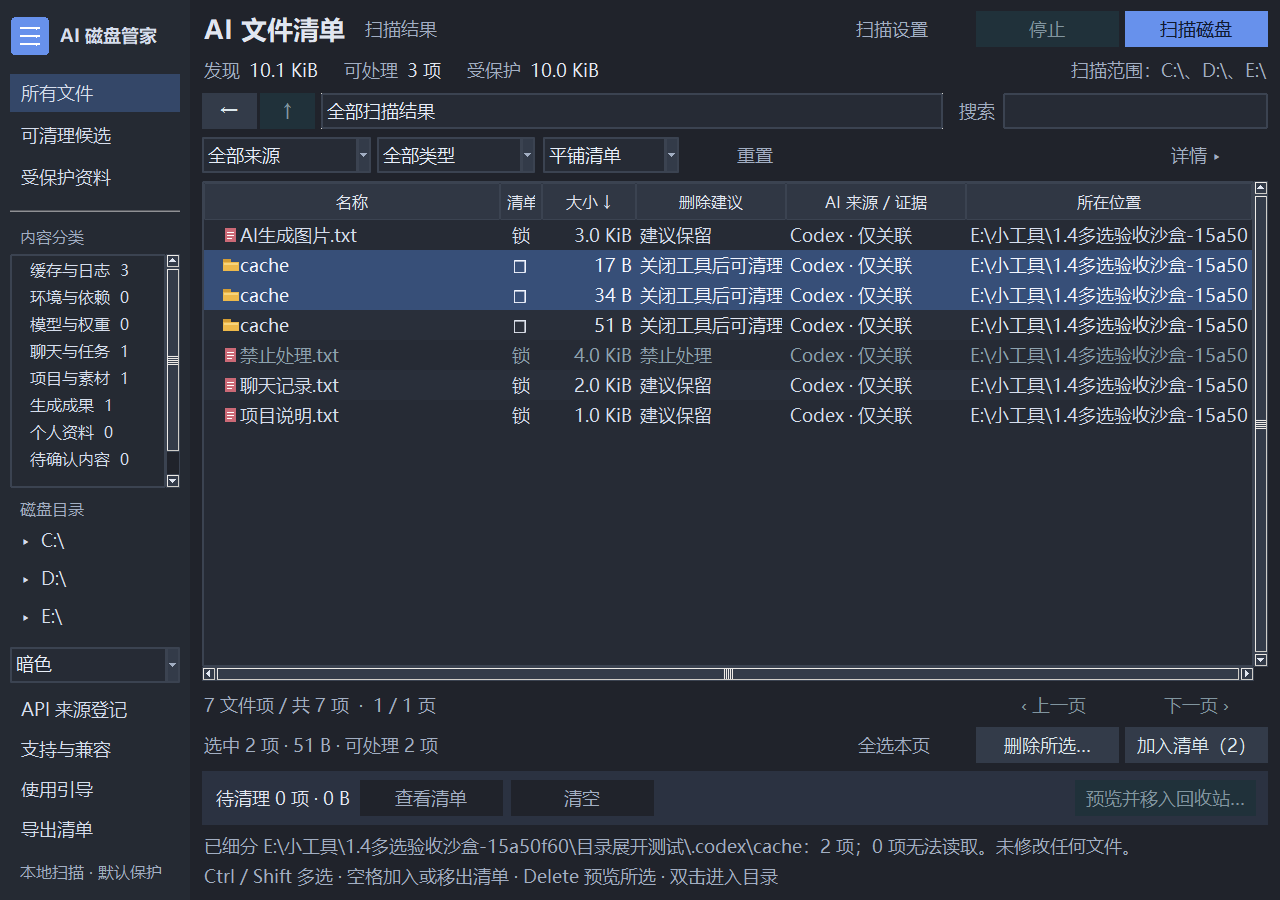
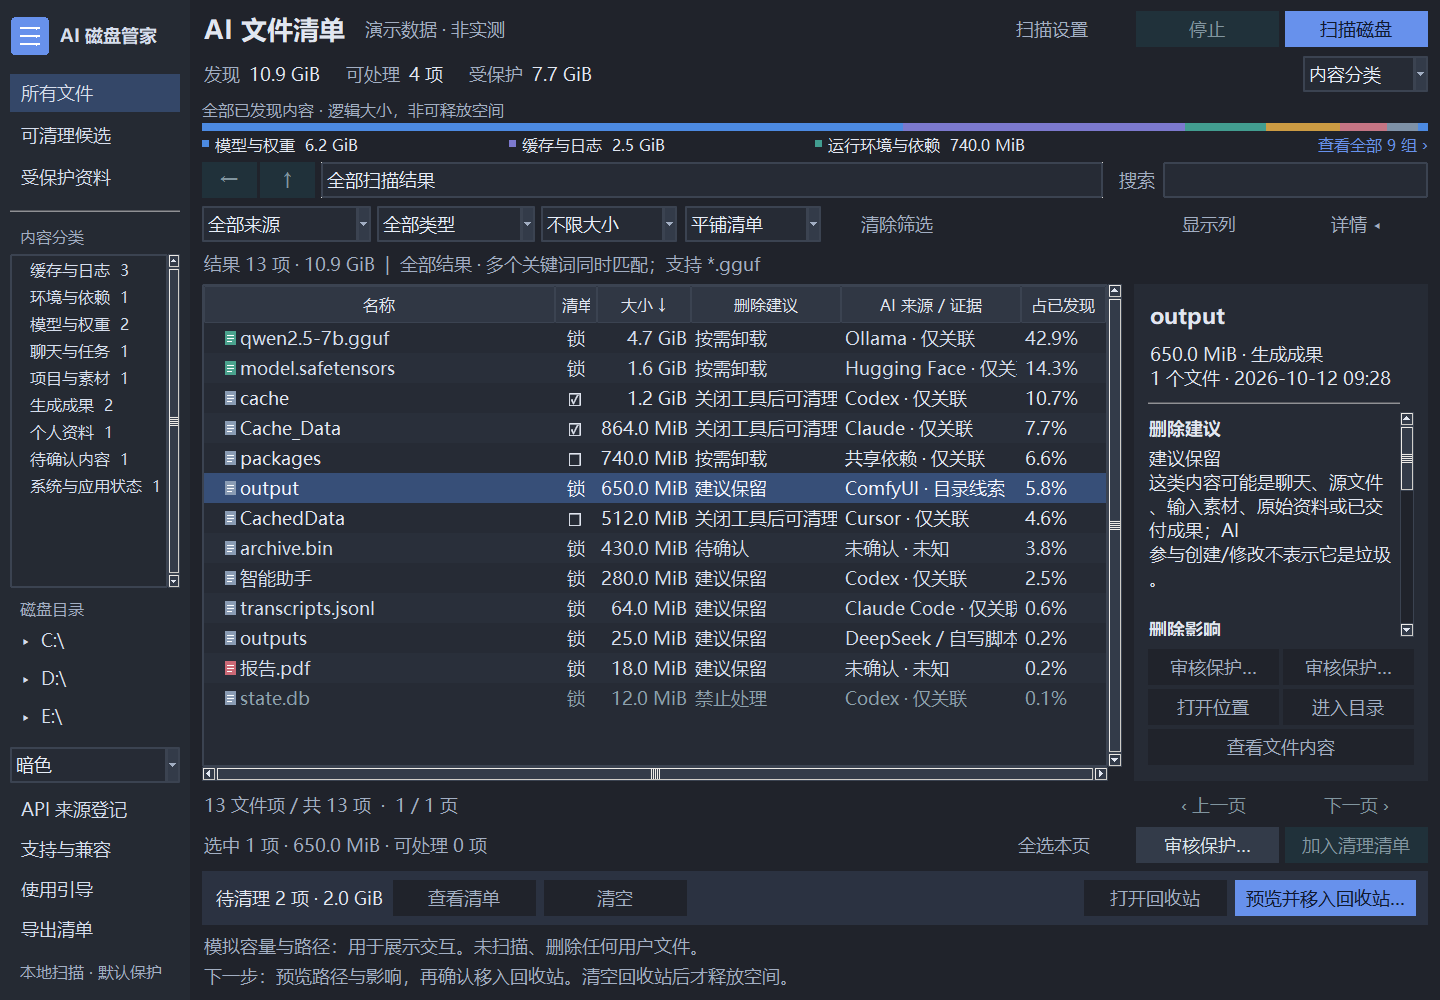
Release 1.5.0 with clearer capacity and review workflows

diff --git a/docs/ui-comparison.md b/docs/ui-comparison.md
@@ -1,0 +1,47 @@
+# 竞品界面与操作对比，以及 1.5 的实际优化
+
+核查日期：2026-10-12。本次对比基于官方截图、官方操作文档和版本记录；没有安装运行竞品，也没有做扫描速度、误删率或内存占用对比。AICacheCleaner 的 All locations 官方演示截图已实际打开查看。以下体验评价是从这些材料得出的设计判断。
+
+## 结论
+
+AI 磁盘管家的价值在于中文说明、明确区分生成者/修改者/关联工具/人工登记、API 自写脚本目录登记，以及先保护、再审核、再回收的流程。这些是已经实现的能力，不意味着竞品都没有，也不是“首个 AI 清理软件”。
+
+原 1.4 的主要不足是：容量摘要只有数字，难以看出空间分布；缺少大小筛选和筛选状态提示；列布局固定；小窗口的分类空间不足；删除预览把多项路径和影响堆在长文本里。原版已有多选、跨页清单和删除建议，本次是在这些功能上改进体验。
+
+## 逐项对比
+
+| 产品 | 值得借鉴的界面与操作 | 我们的定位与当前不足 | 本次处理 |
+| --- | --- | --- | --- |
+| [AICacheCleaner](https://github.com/IamRamgarhia/AICacheCleaner) | 容量按工具展示，风险标签直观；All locations 把名称/路径、大小、风险与详情放在同一视图，提供大小/安全筛选；官方还提供恢复管理 | 我们强调中文证据解释及人工来源登记。其官方功能范围更广，包含恢复管理、重复模型、Docker/WSL、进程等；我们尚无这些能力 | 增加内容/工具容量分布、点击分组筛选、大小筛选、结果摘要；增加系统回收站入口，不能称为内置恢复管理 |
+| [WizTree 操作指南](https://diskanalyzer.com/guide) | 目录与文件两种浏览、容量可视化、多个关键词和文件名通配符，快速缩小大文件范围 | 我们有 AI 内容分类与影响说明，但没有完整树图或 MFT 扫描；没有实测证据证明速度更快 | 增加 GiB/MiB 筛选、多个词同时匹配、引号短语和 *.gguf 通配符；容量条明确为已发现内容的逻辑大小 |
+| [TreeSize 详情列表](https://manuals.jam-software.com/treesize/EN/details.html) | Explorer 风格列表、灵活列配置；标题右键选择显示内容，目录、容量、分类可结合阅读 | 我们此前列固定且窄窗口容易横向拥挤；TreeSize 各版本功能有差异，不把收费版本能力归到 Free 版 | 增加“显示列”和表头右键菜单；列选择保存，窗口缩放/主题切换保留；默认按窗口宽度安排占比和位置列 |
+| [Codex Cleanup VI-IT](https://github.com/VI-IT/Codex-Cleanup) | 按项目聚合，大小和影响结合风险级别，扫描、选择、确认分阶段 | 我们中文、覆盖更多规则生态，所有项默认不勾选，只走回收站；仍缺项目级过期构建识别与完整项目汇总 | 将“删除所选”改成准确的“预览所选”；确认窗口改为列表与所选项影响；保留逐项审核和确认门槛 |
+| [CCleaner 版本记录](https://www.ccleaner.com/ccleaner/version-history) | 官方最新记录已新增 AI Tools 分类；本次只核查版本功能，没有实际体验当前界面 | 不能宣传通用清理工具“不认识 AI”。我们聚焦证据与生成成果保护；尚无同等成熟的安装、签名、更新与广泛硬件验证 | 在文档中明确差异，保留“扫描 → 查看 → 勾选 → 核对”的流程与首次空列表引导 |
+| [WinDirStat](https://windirstat.net/) | 官方容量图、搜索、快照等功能有利于定位空间 | 我们尚无完整树图、快照差异比较、模型去重；本次没有做交互或速度实测 | 先补轻量容量分布和已发现占比，不把小图宣传为完整文件系统分析 |
+| [BleachBit](https://www.bleachbit.org/features) | 预览处理内容、清理类别与可扩展规则；说明动作有助于用户决策 | 清理目的及擦除方式与我们不同；不能断言其所有社区规则都不支持 AI | 保留删除前预览与影响，失败保留原文件；不增加永久删除快捷入口 |
+| [AI Cache Cleaner VS Code 扩展](https://github.com/lidegejingHk/ai-cache-cleaner) | 官方看板、工具分类、安全等级和规则设置集中 | 我们便携运行，无需 VS Code；其跨平台行为和市场安装情况本次未实测；我们的规则维护仍需新版发行 | 保留独立中文程序和主题，增加工具维度容量查看；未新增规则编辑器 |
+
+## 1.5 已实现的改进
+
+1. **容量更容易看清**：按内容分类或关联工具查看容量条与分组列表，点击即可筛选。统计覆盖全部已发现内容，筛选和换页不改变占比分母。显示逻辑大小，不能当作必然能释放的容量。
+2. **定位文件更快**：增加 ≥1 GiB、≥100 MiB、<1 MiB 筛选；搜索多个词同时匹配，支持引号短语及文件名 * / ? 通配符。空目录候选不会凭内部未知文件名冒充搜索命中。
+3. **筛选状态明确**：结果数量、合计大小和生效条件放在列表上方。无结果时给出清除筛选按钮；清除不会丢失当前位置或跨页清理清单。
+4. **列表更灵活**：列菜单和表头右键可以选择内容分类、保护状态、完整路径等；列选择可保存。默认布局在小窗口保留名称、清单、大小、建议、来源和占比，大窗口增加位置。
+5. **小窗口更可用**：较短窗口把磁盘入口和辅助工具收进菜单，九类内容可以完整浏览；右侧详情动作改成两列，减少垂直占用。容量图同步压缩。
+6. **清理阶段更清楚**：选中与加入清单仍是两种动作；所选项先“预览所选”。最后确认显示项目数、总量、列表和选中项的完整路径与影响，确认勾选默认关闭。
+7. **保护审核更准确**：点击普通行只查看，只有明确点击勾选列才批准保护项，避免浏览内容时误批准。永久保护仍不能解锁。
+8. **新用户有起点**：首次无数据时显示扫描、浏览、核对步骤；增加打开系统回收站入口，用户可在系统界面自行检查和还原。
+
+## 仍然需要改进
+
+- 视觉框架仍是 Tk/ttk，和成熟商用清理工具在字体缩放、原生控件质感、细节一致性上有距离。不是 WinUI 重写。
+- 未实现 MFT 加速、完整树图、模型去重、Docker/WSL 专项分析、内置恢复点和自动更新。
+- API 来源目前依赖人工登记或已有日志导入；不能自动认出没有来源记录的所有文件，更不能把关联工具当作生成者。
+- 当前目标 Windows 10/11 x64，只在开发电脑验证；没有证明兼容所有电脑、所有显示缩放或所有 AI 产品版本。
+- 多盘全量扫描仍可能耗时；没有完成竞品性能跑分与长期用户可用性研究。
+
+## 验证与截图
+
+真实 Tk 窗口验证覆盖亮暗主题、三种窗口尺寸、多选、列选择、容量图点击、筛选无结果、目录保持、保护审核与预览。回收站测试只处理自行创建的两个微小目录，共 51 字节。用户原有报告、来源登记与界面设置以指纹核对保持不变。
+
+产品演示截图中的容量和路径全部是明确标记的模拟数据，不能用于宣传实际清理效果。测试截图和发行验证记录保存在本地 `扫描报告/1.5界面验收`；公共发行只包含去除私有数据的演示截图和说明。

diff --git a/README.md b/README.md
@@ -4,13 +4,13 @@
 
 中文 Windows 桌面工具：按大小盘点 AI 缓存、依赖、模型、聊天、项目与生成成果，显示来源证据、处理建议及删除影响。支持目录浏览、多选和跨页清理清单，聊天记录、项目、模型与成果默认保护。
 
-[下载 Windows 便携版](https://github.com/scarlimith/ai-disk-manager/releases/latest) · [使用说明](使用说明.txt) · [支持与边界](docs/support.md) · [验证摘要](docs/validation.md) · [反馈问题](https://github.com/scarlimith/ai-disk-manager/issues)
+[下载 Windows 便携版](https://github.com/scarlimith/ai-disk-manager/releases/latest) · [使用说明](使用说明.txt) · [支持与边界](docs/support.md) · [验证摘要](docs/validation.md) · [界面与竞品对比](docs/ui-comparison.md) · [反馈问题](https://github.com/scarlimith/ai-disk-manager/issues)
 
 这是**程序发行仓库**，提供编译好的程序、说明与演示截图，**不公开应用源码**。GitHub 自动生成的 “Source code” 压缩包仅含本仓库的发行资料，不能代替程序下载。
 
 ## 下载与开始
 
-1. 打开 [Releases](https://github.com/scarlimith/ai-disk-manager/releases/latest)，下载 `AI-Disk-Manager-1.4.0-Windows-x64.zip`。压缩包包含程序、中文说明、来源登记示例和第三方组件许可说明。
+1. 打开 [Releases](https://github.com/scarlimith/ai-disk-manager/releases/latest)，下载 `AI-Disk-Manager-1.5.0-Windows-x64.zip`。压缩包包含程序、中文说明、来源登记示例和第三方组件许可说明。
 2. 解压到自己可写的文件夹，双击 `AI磁盘管家.exe`，不需要另装 Python。
 3. 先查看引导。扫描默认选择有盘符的本地固定/可移动磁盘，也可以在扫描设置中指定目录。
 4. 按大小、来源和内容分类查看结果，阅读建议与影响；多选后加入清理清单，核对预览后再确认移入 Windows 回收站。
@@ -23,18 +23,24 @@
 
 | 查看内容 | 帮助你判断什么 |
 | --- | --- |
-| 九类内容、文件/目录大小、完整路径 | 空间主要被缓存、模型、依赖还是项目占用 |
+| 九类内容、容量条、工具分组、完整路径 | 空间主要被缓存、模型、依赖还是项目占用 |
 | AI 来源与证据等级 | 哪些是写入记录确认，哪些只是目录关联或人工登记 |
 | 删除建议、影响和保护原因 | 清理后是否需要重下载、重建环境，是否涉及成果或聊天 |
-| 目录浏览、类型树、磁盘目录树、文本/图片预览 | 核对实际文件，再做选择 |
+| 大小筛选、多关键词/通配符、目录浏览、可配置列、内容预览 | 核对实际文件，再做选择 |
 | Ctrl/Shift 多选、跨页清理清单 | 集中检查多项内容并批量处理 |
 | 亮色、暗色、跟随系统、使用引导 | 按自己的习惯浏览和操作 |
 
 ![亮色主题，合成测试数据](assets/demo-light.png)
 
-*截图使用自行创建的测试文件，路径属于测试沙盒；10.1 KiB 是演示数据，不是用户磁盘扫描结果或实际释放容量。*
+*截图中的容量和路径全部为明确标记的模拟数据；10.9 GiB 仅展示分布，不是磁盘实测或实际释放容量。*
 
 ![暗色主题，合成测试数据](assets/demo-dark.png)
+
+### 1.5 操作改进
+
+容量条可按内容或工具分组并点击筛选，大小门槛和多个搜索词帮助定位内容；“显示列”可保存列表习惯。小窗口保留全部九类入口，辅助动作收进菜单。选中保护项时直接进入审核，最终确认使用表格与所选项影响，默认不会批准或删除。
+
+![空列表引导，未扫描](assets/demo-empty.png)
 
 ## 来源判断保持证据边界
 
@@ -64,13 +70,13 @@
 
 ## 版本与反馈
 
-当前版本：**1.4.0**。EXE：16,899,706 字节（约 16.12 MiB）。SHA-256：
+当前版本：**1.5.0**。EXE：16,911,006 字节（约 16.13 MiB）。SHA-256：
 
 ```text
[2 lines of base64/hex data omitted]
 ```
 
-验证覆盖多选、保护审核、跨页清单、原生回收站批量处理及独立 EXE 启动。128 项回归检查中 127 通过、1 因符号链接创建权限跳过，无失败；测试只处理自行创建的微小沙盒内容。[查看具体范围与限制](docs/validation.md)。
+验证覆盖多选、保护审核、跨页清单、原生回收站批量处理及独立 EXE 启动。138 项回归检查中 137 通过、1 因符号链接创建权限跳过，无失败；测试只处理自行创建的微小沙盒内容。[查看具体范围与限制](docs/validation.md)。
 
 欢迎在 [Issues](https://github.com/scarlimith/ai-disk-manager/issues) 描述系统版本、程序版本、复现步骤与已隐藏私人信息的截图。此工具为独立项目，与所列 AI 产品没有官方关联或背书。
 

diff --git a/docs/validation.md b/docs/validation.md
@@ -1,37 +1,19 @@
-# 1.4.0 验证摘要
+# 1.5.0 验证摘要
 
-本页整理发布者保留在本地的验证记录，不公开用户磁盘快照、私人路径、会话内容或原始审计文件。该摘要是开发验证，尚无第三方独立认证。
+测试仅在开发电脑上进行。下面是已完成的检查，不代表兼容所有电脑、所有显示缩放或所有 AI 工具版本。
 
-## 发行文件
-
-- 程序：`AI磁盘管家.exe`
-- 版本：1.4.0
-- 架构：Windows AMD64 / x64
-- 大小：16,899,706 字节
[1 lines of base64/hex data omitted]
-- 未进行数字签名。
-
-本次 GitHub 发布未修改程序二进制，公开文件哈希与已验证稳定版一致。
-
-## 已完成的验证
-
-| 范围 | 结果与边界 |
+| 范围 | 本轮结果 |
 | --- | --- |
-| 自动回归 | 128 项，127 通过，1 因本机符号链接创建权限跳过，无失败 |
-| 多选与清单 | 实际 Tk 鼠标 Ctrl / Shift，多选保持、空格批量加入/移出、跨页保留与逐项移除 |
-| 保护审核 | 多项默认全部未勾选，永久保护项排除，只解除用户明确勾选项 |
-| 目录浏览 | 导航、返回、上一级、虚拟分组不能删除、真实目录按需展开 |
-| 原生批量回收 | 一次确认后将两个自建缓存目录（17 + 34 字节）移入 Windows 回收站，其他测试文件保留 |
-| 只读流程 | 删除预览取消、查看详情与切换布局，零 Tk 回调异常；原用户报告和设置未被改写 |
-| 窗口与主题 | 1760×1180、1280×900、1060×720 三种尺寸 × 亮暗两种主题；最后一次说明文字增量验证复用此前布局证据 |
-| 独立 EXE | 仅 EXE、中文含空格的可写目录启动；亮暗主题与最小窗口检查 |
-| API 样例 | 两个自建小文件（合计 43 字节），正确标为人工登记并默认保护 |
+| 回归 | 138 项，137 通过，1 因本机符号链接创建权限跳过，无失败 |
+| 交互 | 实际 Tk 事件检查 Ctrl/Shift、空格、多选保持、跨页清单、来源/容量筛选、目录保持、空状态、列配置 |
+| 保护 | 普通行浏览不批准，勾选列才批准；永久保护排除；选中受保护项直接进入审核 |
+| 预览 | 表格选择能显示对应完整路径与影响，最终确认默认关闭；取消保留所有项 |
+| 原生回收 | 只将两个自建微小缓存目录（17 + 34 字节）移入 Windows 回收站；其他测试文件保留 |
+| 独立 EXE | 仅 EXE 初始目录，中文含空格路径；独立启动验证 1760×1180、1280×900、1060×720 × 亮暗两种主题 |
+| API 样例 | 两个自建小文件共 43 字节，人工登记且默认保护；无需另装 Python |
+| 本机兼容检查 | 独立 EXE 成功生成本机检查与 17 类规则生态清单，不执行删除 |
+| 数据保持 | 原用户扫描报告、界面设置、来源登记指纹不变，零 Tk 回调异常 |
 
-真实删除验证只处理自行创建的微小测试内容，没有删除用户原有文件。合计 51 字节的回收站验证不代表已经释放大量空间。
+列菜单检查使用真实变量和命令，但模拟原生菜单弹出；打开回收站只校验调用，不自动操作系统回收站界面。窗口尺寸验证分别独立启动 EXE，避免测试脚本的原生菜单焦点、最小化状态影响截图。
 
-## 没有被这些检查证明的内容
-
-上述测试仅在当前开发电脑上进行，不代表 Windows 10/11 的全部版本、所有电脑、显示缩放、AI 产品版本、磁盘格式、权限和存储配置都兼容。
-
-没有发布扫描速度对比、误识别率统计、独立安全审计、清理几十 GB 的效果承诺或“100% 不会误删”的保证。
-
+产品演示图的容量和路径为模拟数据。51 字节回收测试不代表实际释放大量空间；程序没有完整树图、MFT 加速、模型去重或内置恢复管理。没有竞品性能实测、误删率统计、独立安全审计或“100% 安全”保证。
